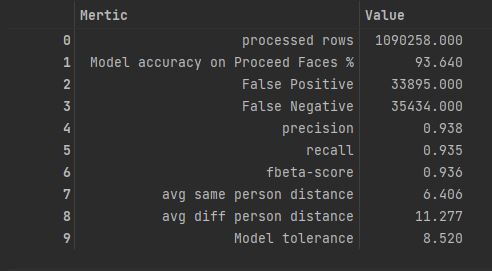
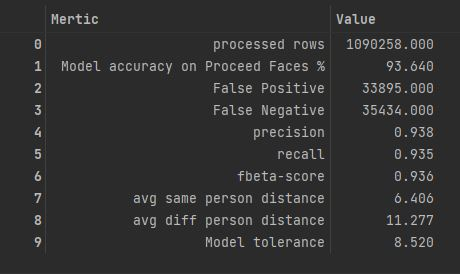
add model evaluation results

diff --git a/README.md b/README.md
@@ -1,6 +1,7 @@
 # conv-facenet
 - using conv-next as base model for face recognition with pytorch
-- the model trained on CelebFaces large-scale face dataset with more than 200K celebrity images with accuracy about 93.8%
+- the model trained on CelebFaces large-scale face dataset with more than 200K celebrity images 
+- model  accuracy on CelebA dataset about 93.6% and on Labeled faces in the wild (LFW) 95.8%
 - all src code for the model for direct usage exits in [src/efficentfacenet](src/efficentfacenet)
 
 # Dataset
@@ -136,3 +137,11 @@ mean of photo count for each identity=19
 - I observed that efficientnet converges with high speed at the first epochs then test loss fixed for a long
 - ![convnext_fulldata_table.JPG](readme-assets/convnext_fulldata_table.JPG)
 - ![convnext_fulldata_curve.JPG](readme-assets/convnext_fulldata_curve.JPG)
+
+
+# Model Evaluation
+## CelebA dataset
+- ![convnext_Accuracy_CelbA.JPG](readme-assets/convnext_Accuracy_CelbA.JPG)
+
+## Labeled Faces in the Wild (LFW) dataset
+- ![convnext_Accuracy_LFW.JPG](readme-assets/convnext_Accuracy_LFW.JPG)
